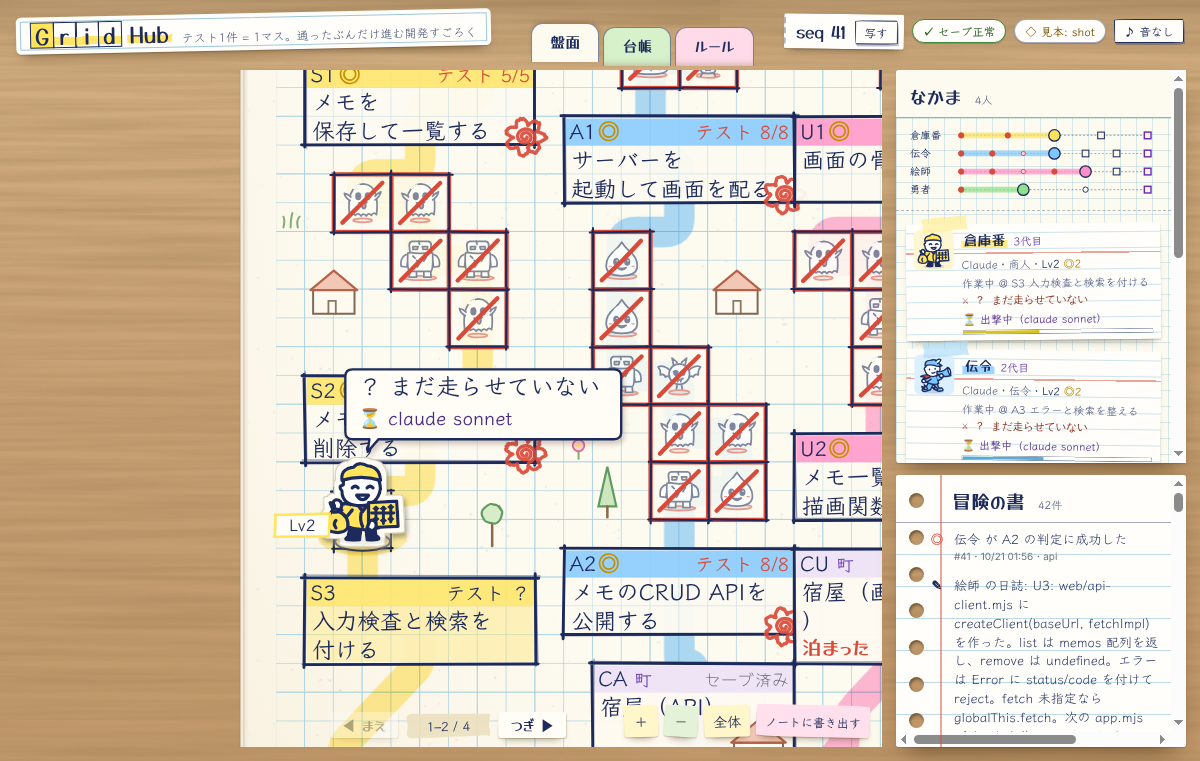
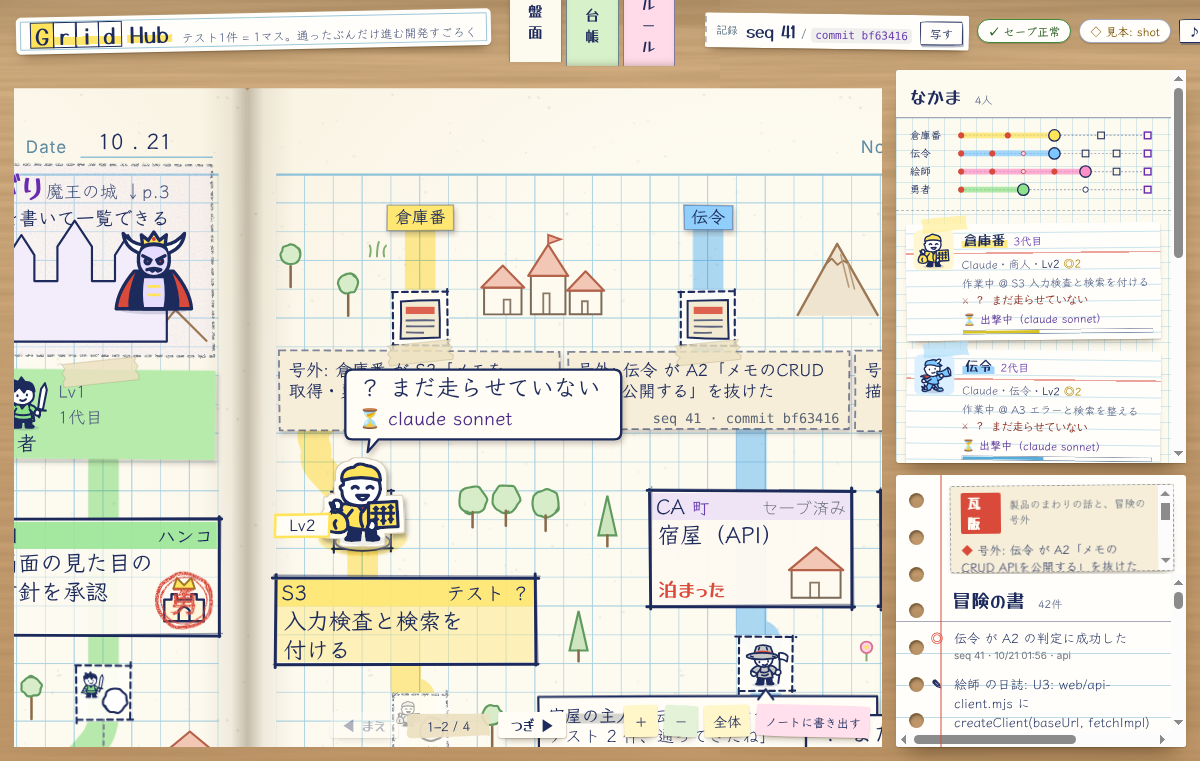
[完了] 盤面 §53: 瓦版の切り抜きに中身を書く・README の写真（docs/board.png・board-zoom.png）を余白つきで撮り直す
- 瓦版の切り抜き（news の余白のふきだし）は、題（§53 ではいつも「瓦版」）を書かず、中身を書く。1行目は号外の見出し、
  2行目は分野の話題（quest.news）。細ければ見出しだけを2行で。題は絵（瓦版の紙）でわかるので重複になっていた。
- 写真（監督の指示。docs のうち、この2枚の画像だけを差し替えた）:
  - 前と同じ構図: examples/memo の冒険を seq 41 で切ったビュー（スクラッチに写して log.jsonl を 42 行に。verify は正常）を、
    統合 fbdfc0f の本物のエンジン（§53 の余白と瓦版）で gridhub status --json にし、docs/shots/shot.mjs で撮った。
    手書きの字（--fonts、字のファイルはリポジトリに入れない）、見開きは --width 1440 --height 900（画面 1440×761）、
    拡大は --height 761（1200×761）。
  - 写っているもの: 余白の会話（勇者 と 伝令）・宿屋の主人の話・瓦版の切り抜き（号外）・右の欄の瓦版 #news。
    メモアプリの地図は第11章より前の冒険で quest.news が無いので、瓦版は冒険の書から来た号外だけ（作り話は足さない）。
  - board-flip.png・board-ending.png・docs/shots/demo-*.png は撮り直していない（頼まれていない）。

確かめたこと（Linux・Chromium）: B1〜B14・G1・G3・G8・G9 → pass 69 / fail 0（統合 fbdfc0f の書記の §53 を取り込んだうえで）。

Claude-Session: https://claude.ai/code/session_01GeqjaE4G8gUdrwSAFfnU2a

diff --git a/web/board/world.js b/web/board/world.js
@@ -643,10 +643,11 @@ export function bubbleRows(view, m, w, perSpeaker = 1) {
   const max = Math.max(4, (w * U - 12) / BUBBLE_PX);
   const rows = [];
   if (m.kind === 'news') {
-    const body = m.lines.find((l) => l.text)?.text;
-    // 細い切り抜きは見出しだけを2行で
-    for (const t of wrapJa(m.title || body || '', max, w <= 8 || !body ? 2 : 1)) rows.push({ text: t, head: true });
-    if (body && w > 8 && m.title) for (const t of wrapJa(body, max, 1)) rows.push({ text: t });
+    // 瓦版の切り抜き: 題（いつも「瓦版」）は絵でわかるので書かず、中身（号外の見出しと、分野の話題）を。細ければ見出しだけを2行で
+    const said = m.lines.filter((l) => l.text).map((l) => l.text);
+    const head = said[0] ?? m.title ?? '';
+    for (const t of wrapJa(head, max, w <= 8 || said.length < 2 ? 2 : 1)) rows.push({ text: t, head: true });
+    if (said[1] && w > 8) for (const t of wrapJa(said[1], max, 1)) rows.push({ text: t });
     return rows;
   }
   const said = m.lines.filter((l) => l.text).slice(0, 2);
